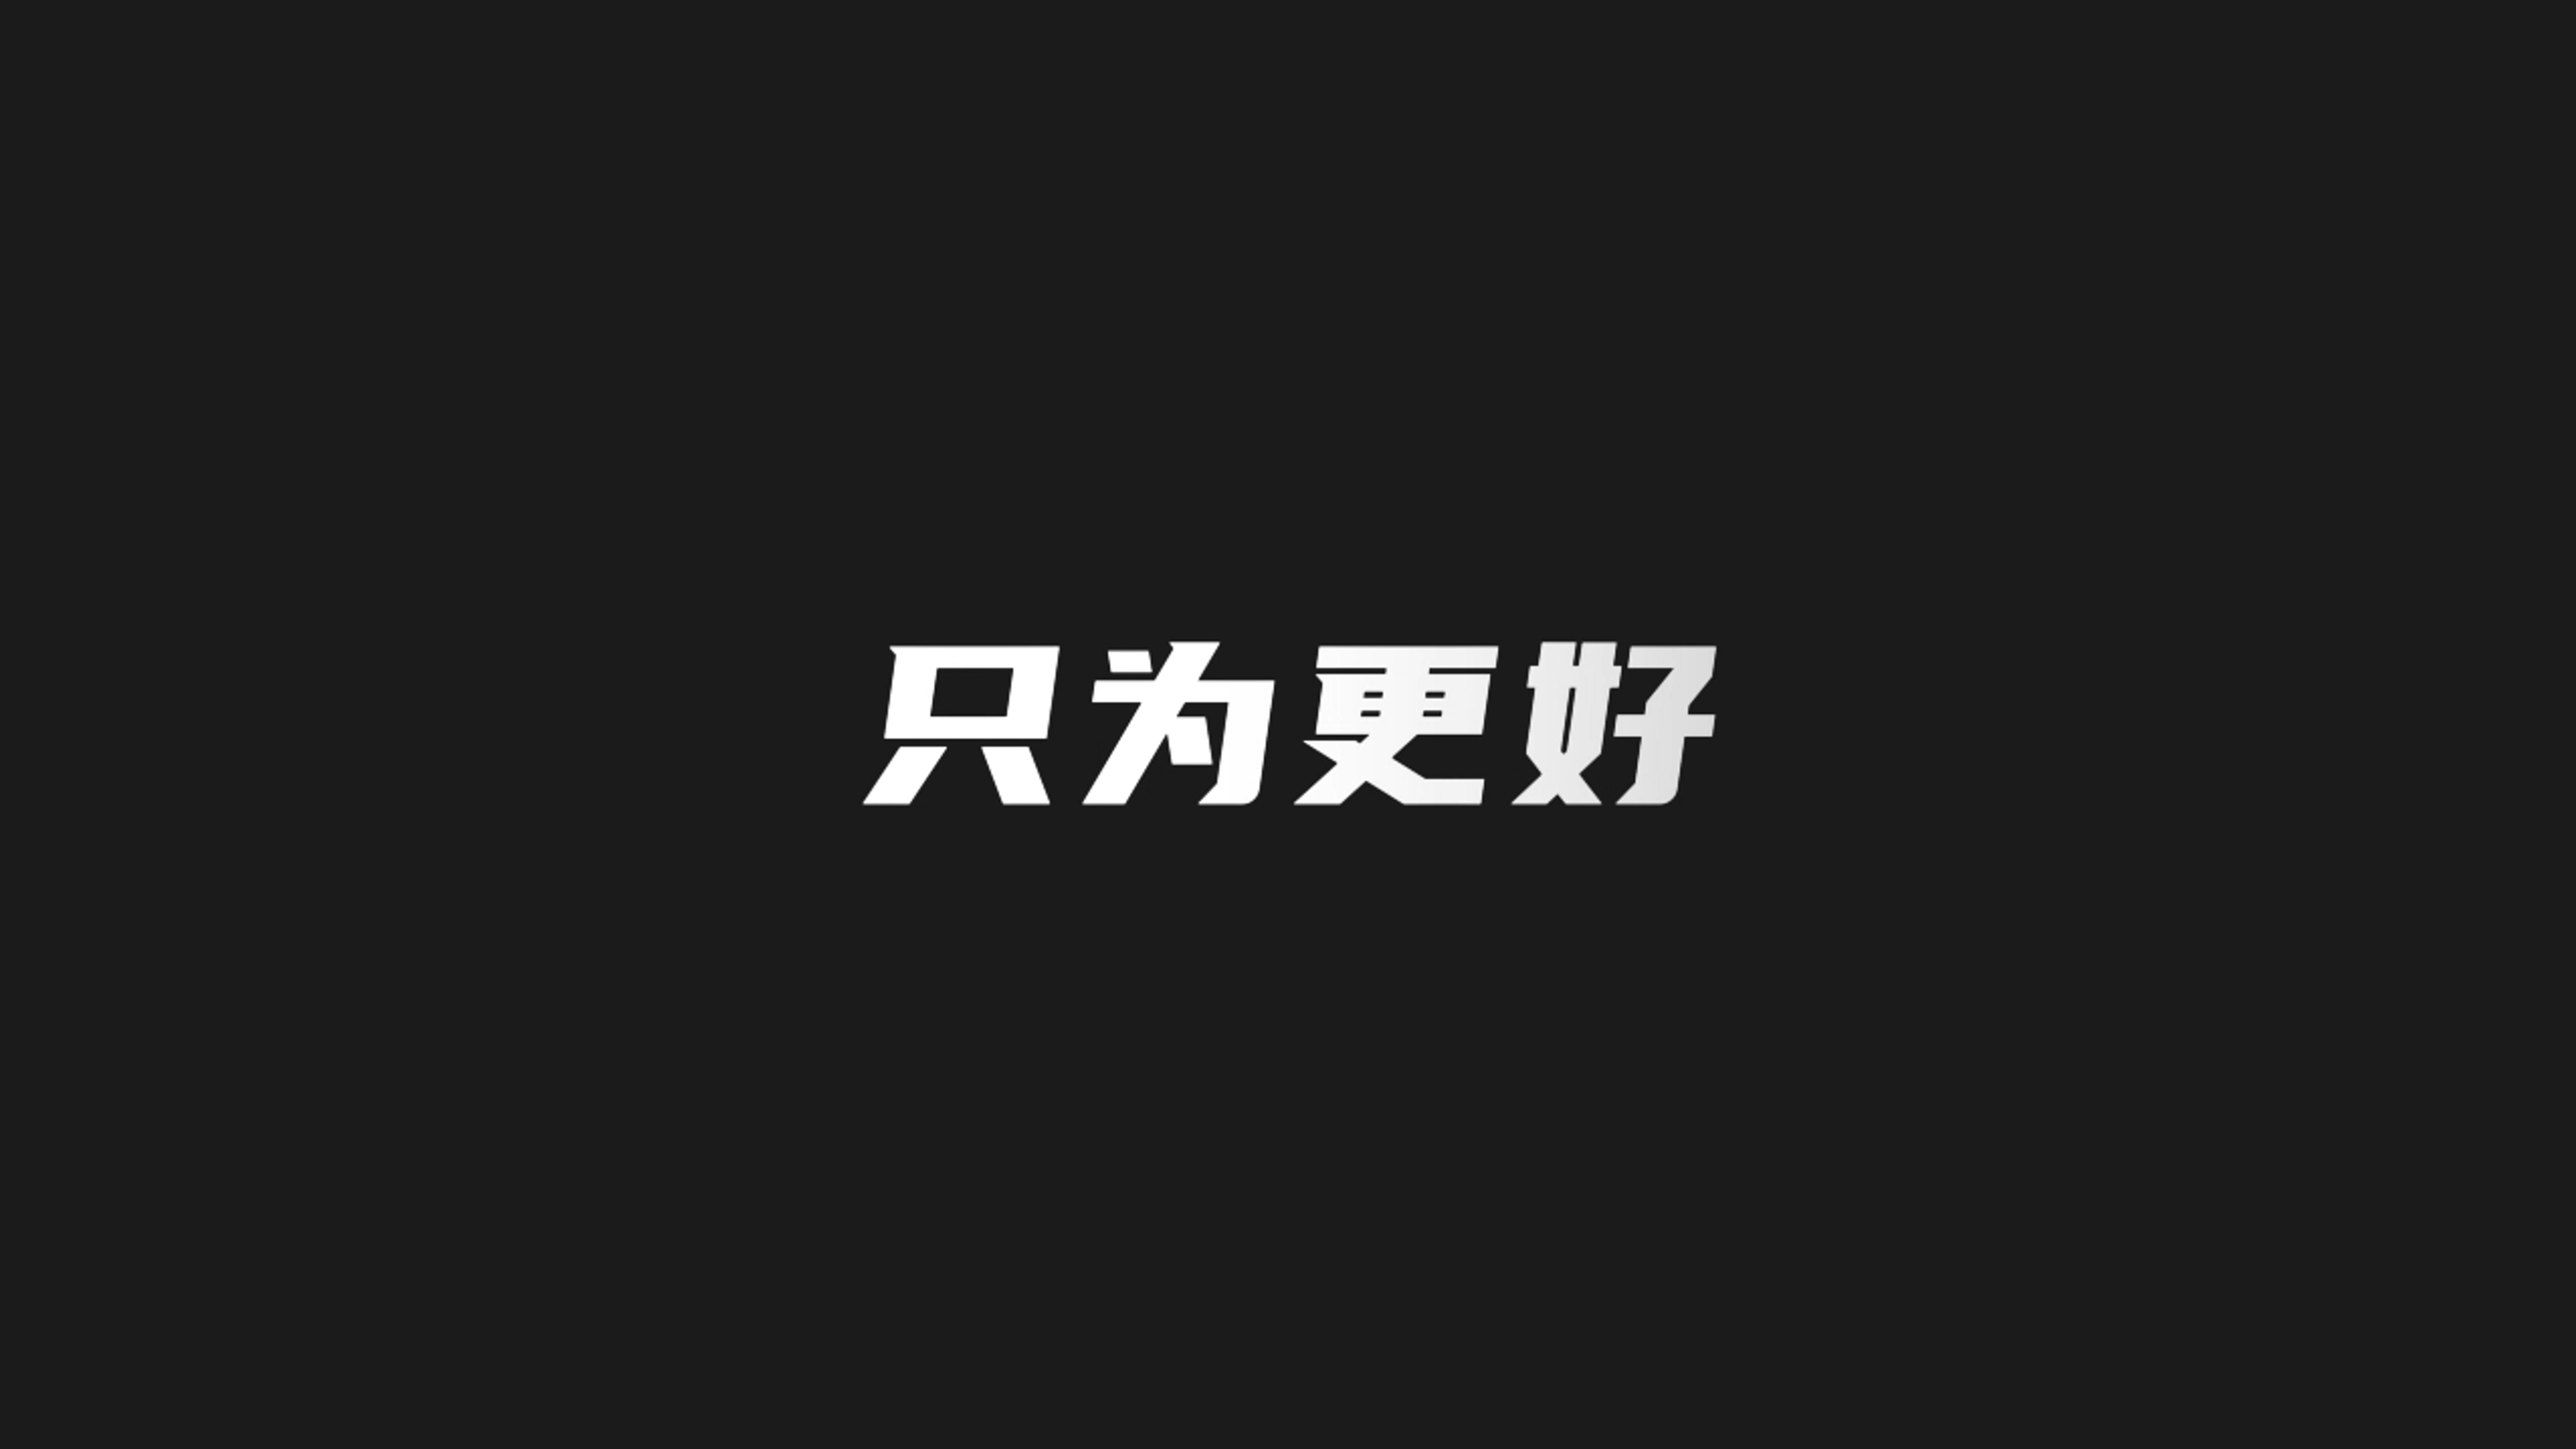
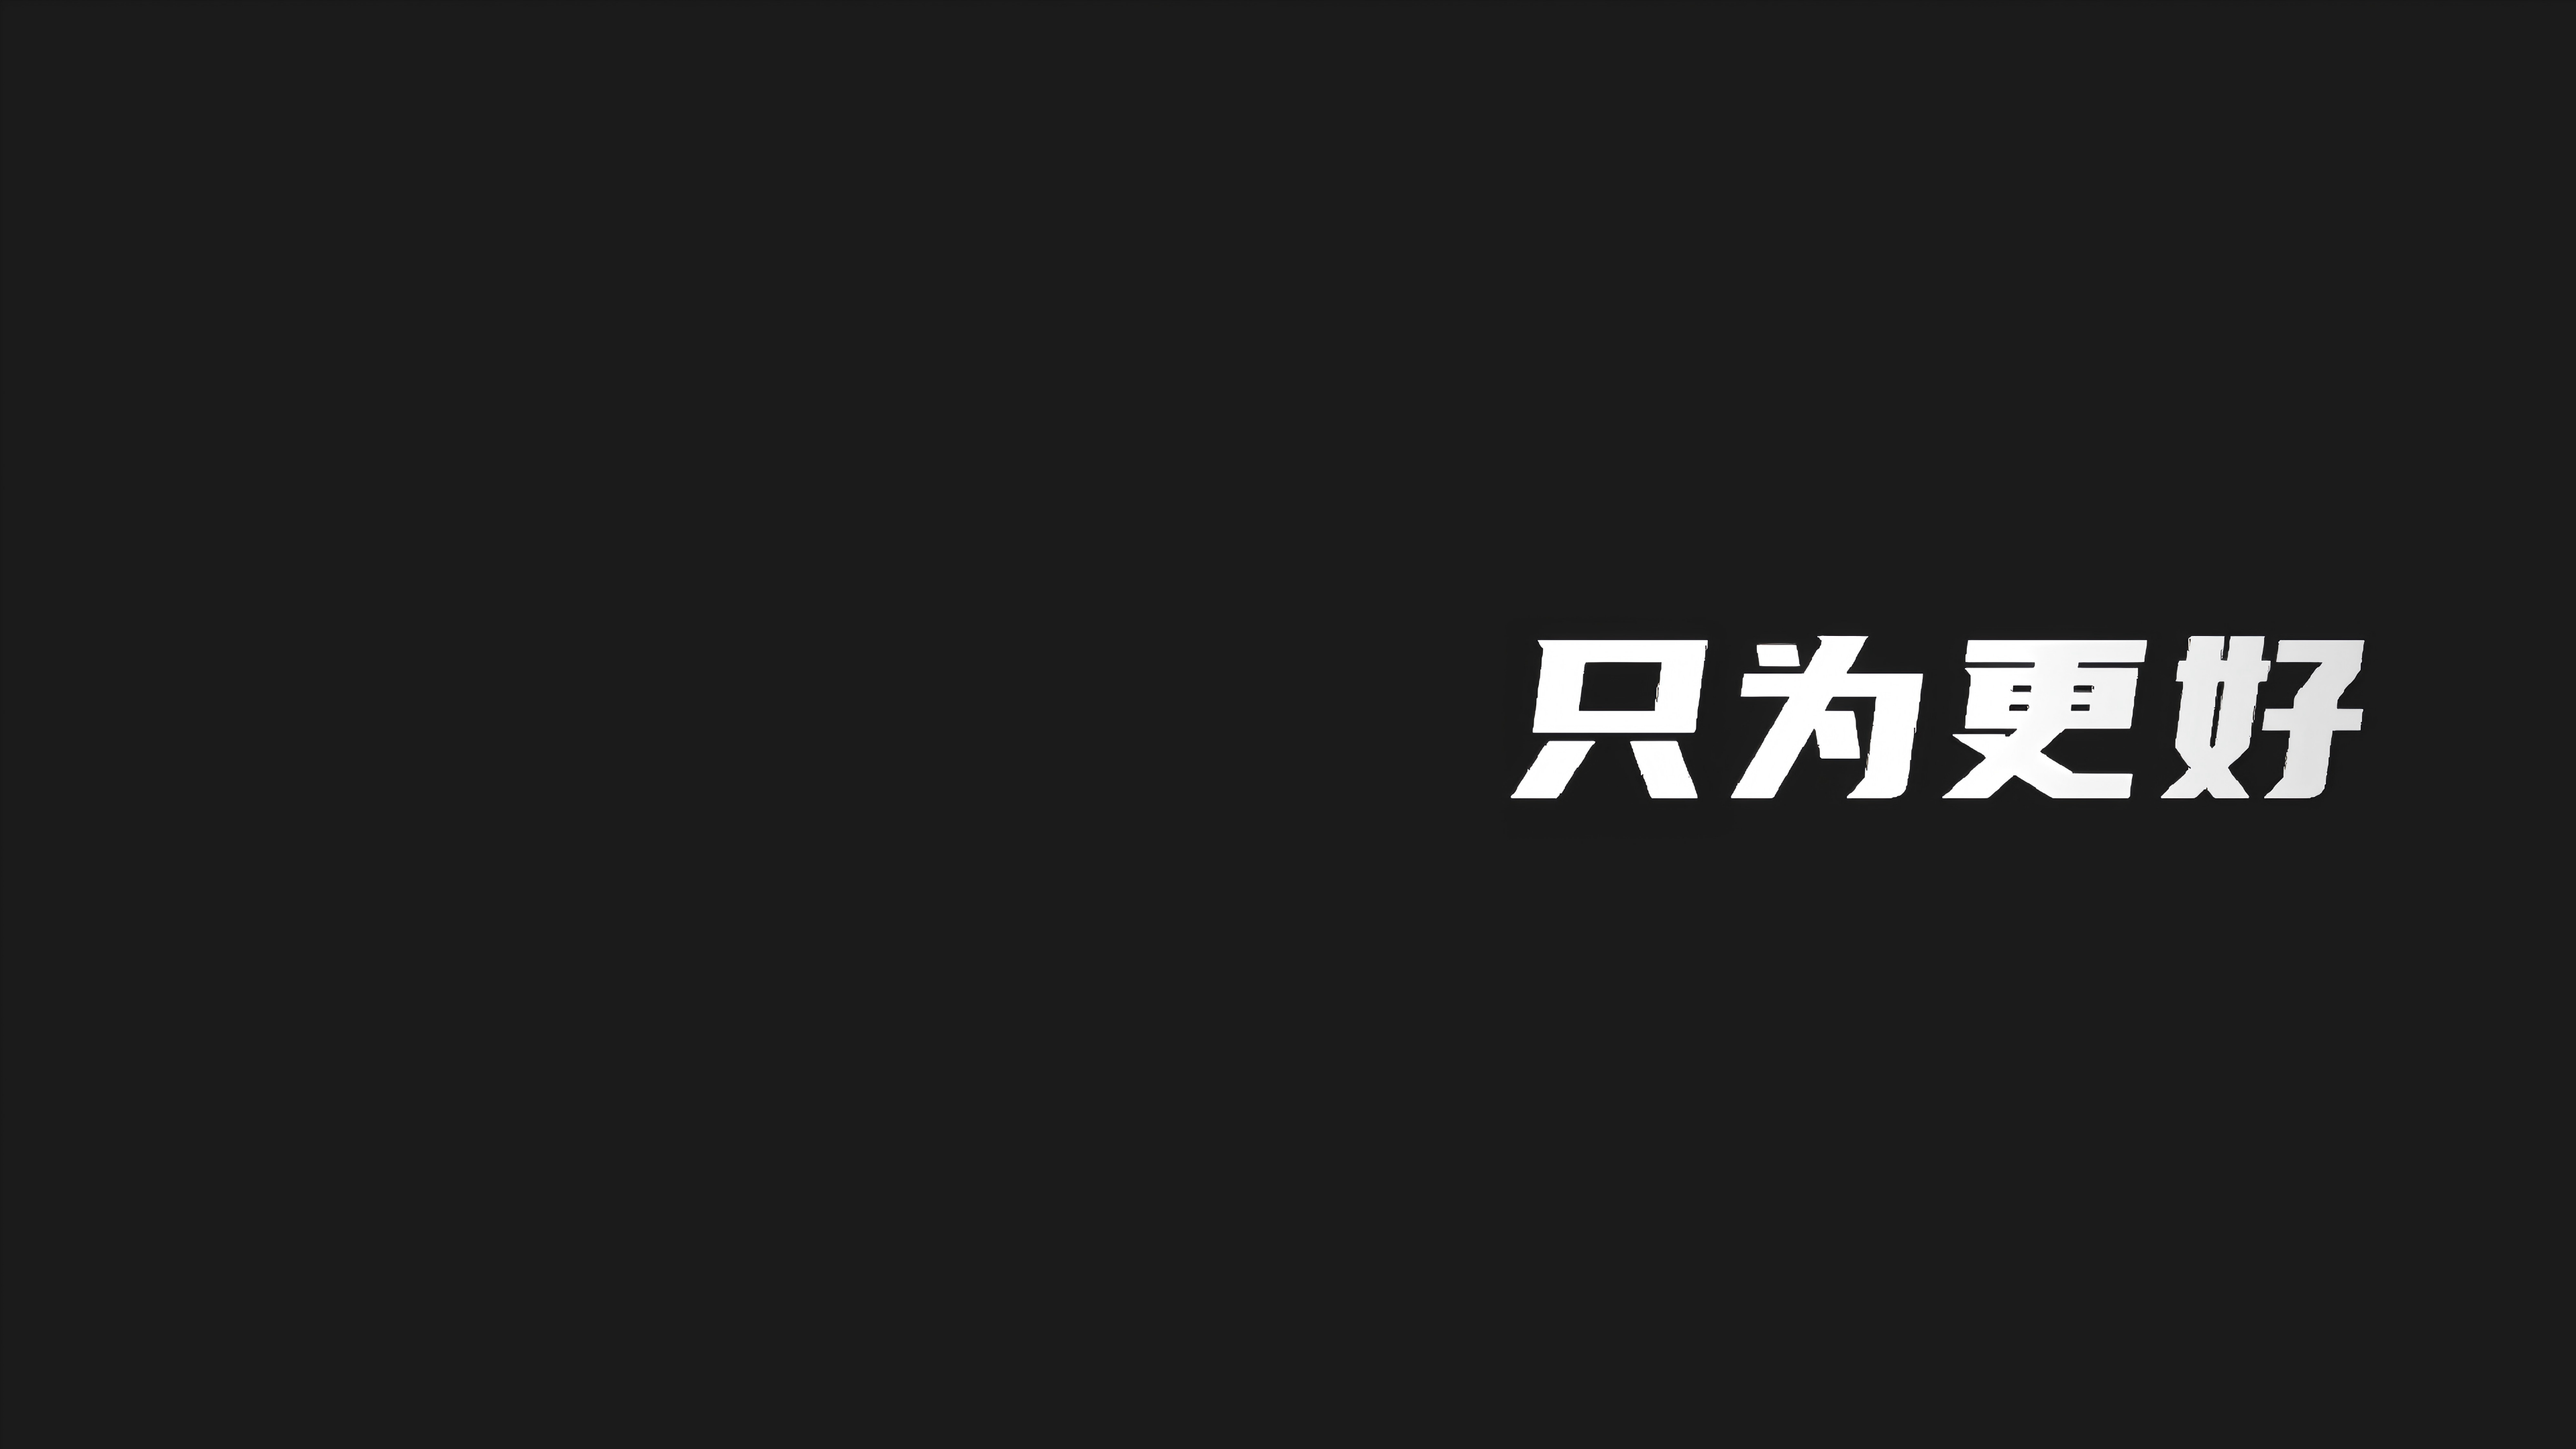
feat: add "Join Us" link and improve hero section layout

Changed region(s): [[0.3125, 0.4343, 0.9375, 0.5583]]

diff --git a/index.html b/index.html
@@ -44,7 +44,7 @@
                 <div class="hero-copy">
                     <p class="eyebrow">开源 · 共创 · 少年力量</p>
                     <h1>探索编程的无限可能</h1>
-                    <p class="lead">SR思锐 团队 —— 以青少年编程为中心的学习与实践社区，和伙伴们一起用代码创造未来。</p>
+                    <p class="lead">以青少年编程为中心的学习与实践社区，和伙伴们一起用代码创造未来。</p>
                     <div class="hero-actions">
                         <a class="btn btn-primary" href="#products"><i class="fas fa-code" aria-hidden="true"></i><span>探索产品</span></a>
                         <a class="btn btn-accent" href="#" id="join-us-hero"><i class="fas fa-user-plus" aria-hidden="true"></i><span>加入我们</span></a>

diff --git a/styles.css b/styles.css
@@ -302,6 +302,11 @@ button {
               url('images/hero-bg.png') right center/cover no-repeat;
 }
 
+.hero .container.hero-grid {
+  margin-left: clamp(1.5rem, 5vw, 4rem);
+  margin-right: auto;
+}
+
 .hero-overlay {
   position: absolute;
   inset: 0;
@@ -316,6 +321,10 @@ button {
   align-items: center;
   z-index: 1;
   max-width: 600px;
+}
+
+.hero-copy {
+  text-align: left;
 }
 
 .hero-copy h1 {
@@ -338,6 +347,7 @@ button {
   flex-wrap: wrap;
   gap: 0.85rem;
   margin-top: 1.5rem;
+  justify-content: flex-start;
 }
 
 .hero-card {
